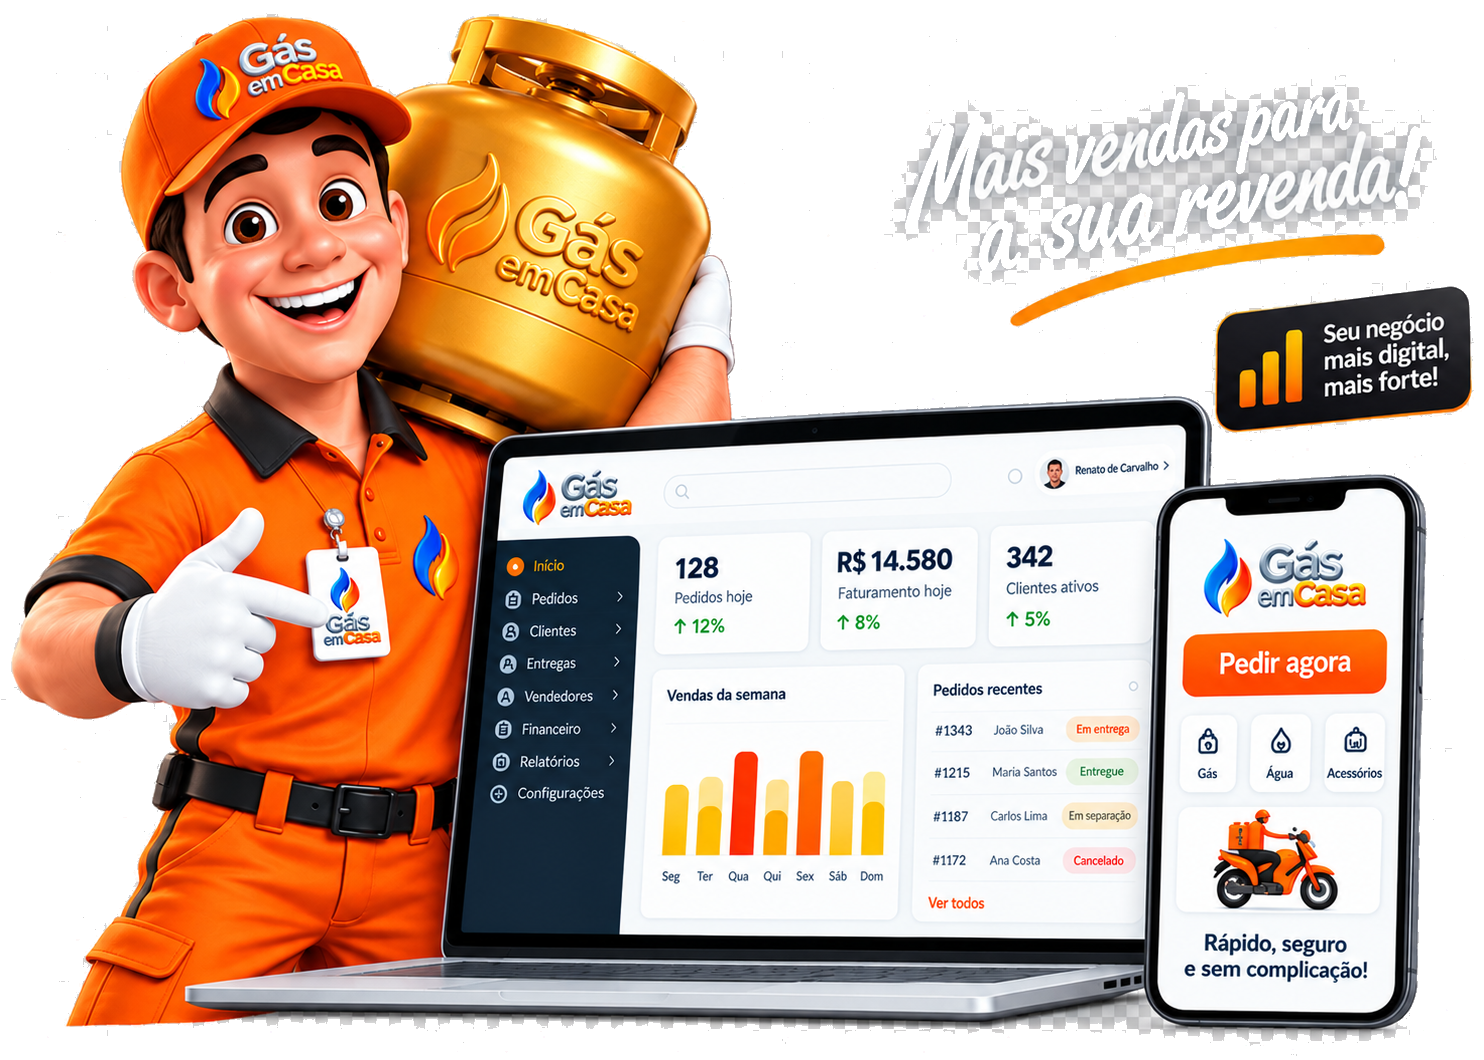
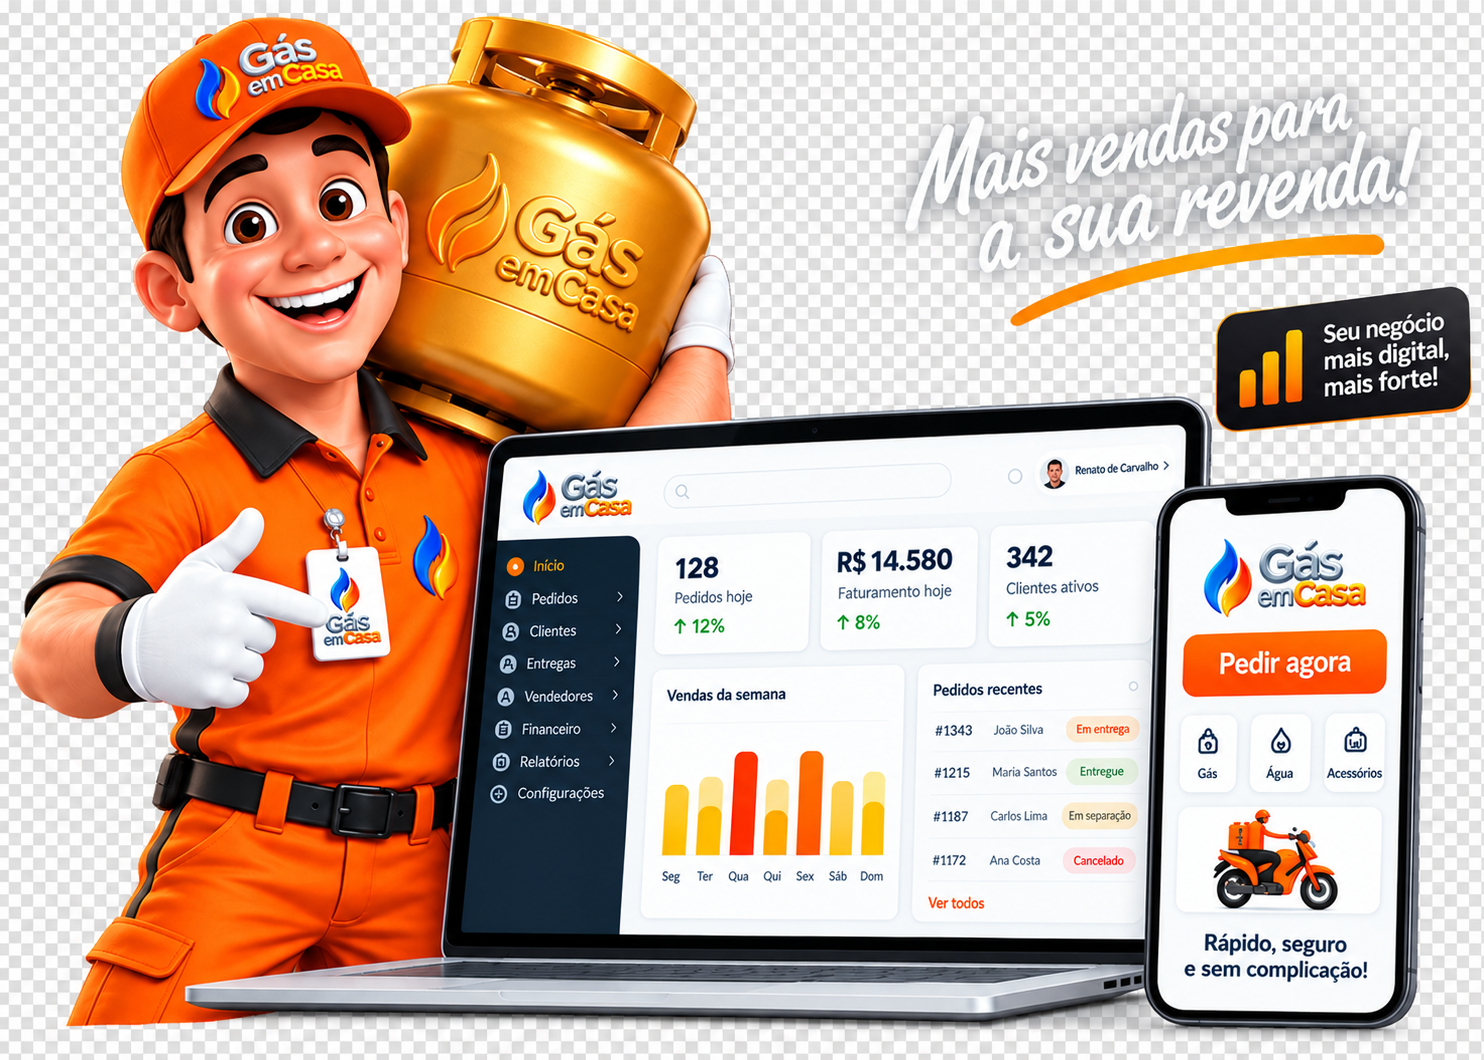
fix(landing): restaura arte original do mascote

Changed region(s): [[0.0, 0.0, 1.0, 1.0]]

diff --git a/docs/01-vigente/UI_UX_ERP_NOVO_EXECUCAO.md b/docs/01-vigente/UI_UX_ERP_NOVO_EXECUCAO.md
@@ -287,15 +287,15 @@ permissão ou dado.
   configuração.
 - O hero foi reestruturado sem alterar os destinos seguros existentes: acesso
   continua em `/novo/app/`, e a descoberta segue por âncoras locais. A imagem
-  foi preparada como PNG RGBA; o arquivo de origem continua preservado no
-  recorte da landing.
+  usa o asset PNG original fornecido, sem recorte, remoção de fundo, IA ou
+  conversão de formato.
 - Corrigido um defeito introduzido durante a edição: os três `@media` não
   fechavam seus blocos, invalidando o CSS responsivo. Os blocos agora estão
   balanceados e incluem layout de uma coluna abaixo de 960px e tipografia/logo
   ajustadas abaixo de 640px.
 - Validação: servidor local respondeu 200 para landing e asset; uma checagem
-  estrutural confirmou um único bloco `<style>`, 122/122 chaves CSS, referências
-  dos três assets existentes e PNG do mascote como RGBA (color type 6).
+  estrutural confirmou um único bloco `<style>`, 122/122 chaves CSS e referências
+  dos três assets existentes.
 - Correção posterior à captura: o servidor expõe a landing na raiz `/`, mas os
   arquivos vivem em `public/landing/img`. URLs relativas viravam `/img/...` e
   retornavam 404. As três referências usam `/landing/img/...`, agora com rota
@@ -310,6 +310,10 @@ permissão ou dado.
   `nginx -t` e reload. Fundo, logo e mascote foram conferidos na URL HTTPS com
   `200 image/png`. Backup reversível do vhost foi salvo em `/root/` fora de
   `sites-enabled`, evitando novo servidor duplicado.
+- Correção de procedência: a primeira versão publicada do mascote tinha sido
+  alterada por uma tentativa indevida de recorte. Ela foi restaurada byte a
+  byte a partir da cópia original importada antes desse tratamento (SHA-256
[1 lines of base64/hex data omitted]
 - Limite: a sessão não expõe navegador para captura ou inspeção em 390px/zoom;
   esses itens de U0/U1/U14 permanecem abertos. Uma edição de IA que devolveu
   PNG RGB com quadriculado opaco foi descartada, sem substituir o asset usado.

diff --git a/docs/01-vigente/implementacao-saas/ESTADO_ATUAL.md b/docs/01-vigente/implementacao-saas/ESTADO_ATUAL.md
@@ -1789,7 +1789,7 @@ F0-05.07/08: PostgreSQL real com role runtime aprovou 6 testes/346 assertions e 
   `UI_UX_ERP_NOVO_EXECUCAO.md`, microlote 22.
 - A landing ganhou logo, fundo e arte de marca. Foi corrigido um erro deixado
   no CSS responsivo: três blocos `@media` estavam sem fechamento. Checagem
-  estática: CSS 122/122 chaves, assets locais existentes e mascote RGBA.
+  estática: CSS 122/122 chaves e assets locais existentes.
 - A captura posterior revelou que URLs relativas de assets quebravam na landing
   entregue: ela vive em `/`, mas os arquivos vivem em `public/landing/img`.
   As referências usam `/landing/img/...` e o Nginx agora declara essa rota
@@ -1801,6 +1801,9 @@ F0-05.07/08: PostgreSQL real com role runtime aprovou 6 testes/346 assertions e 
   validada com `nginx -t`, recarregada e confirmada externamente em HTTPS com
   `200 image/png` para os três arquivos. Há backup do vhost fora de
   `sites-enabled` para rollback.
+- O mascote foi restaurado byte a byte à cópia PNG original fornecida; não deve
+  receber recorte, remoção de fundo, IA ou conversão de formato sem solicitação
+  expressa do dono.
 - A sessão não tinha navegador disponível para inspeção em 390px/zoom; U0/U1/U14
   seguem abertos. `erp-novo/perda.sql` e `kit-auditoria/` permanecem
   preexistentes e intocados; os assets da landing ainda estão não commitados.
